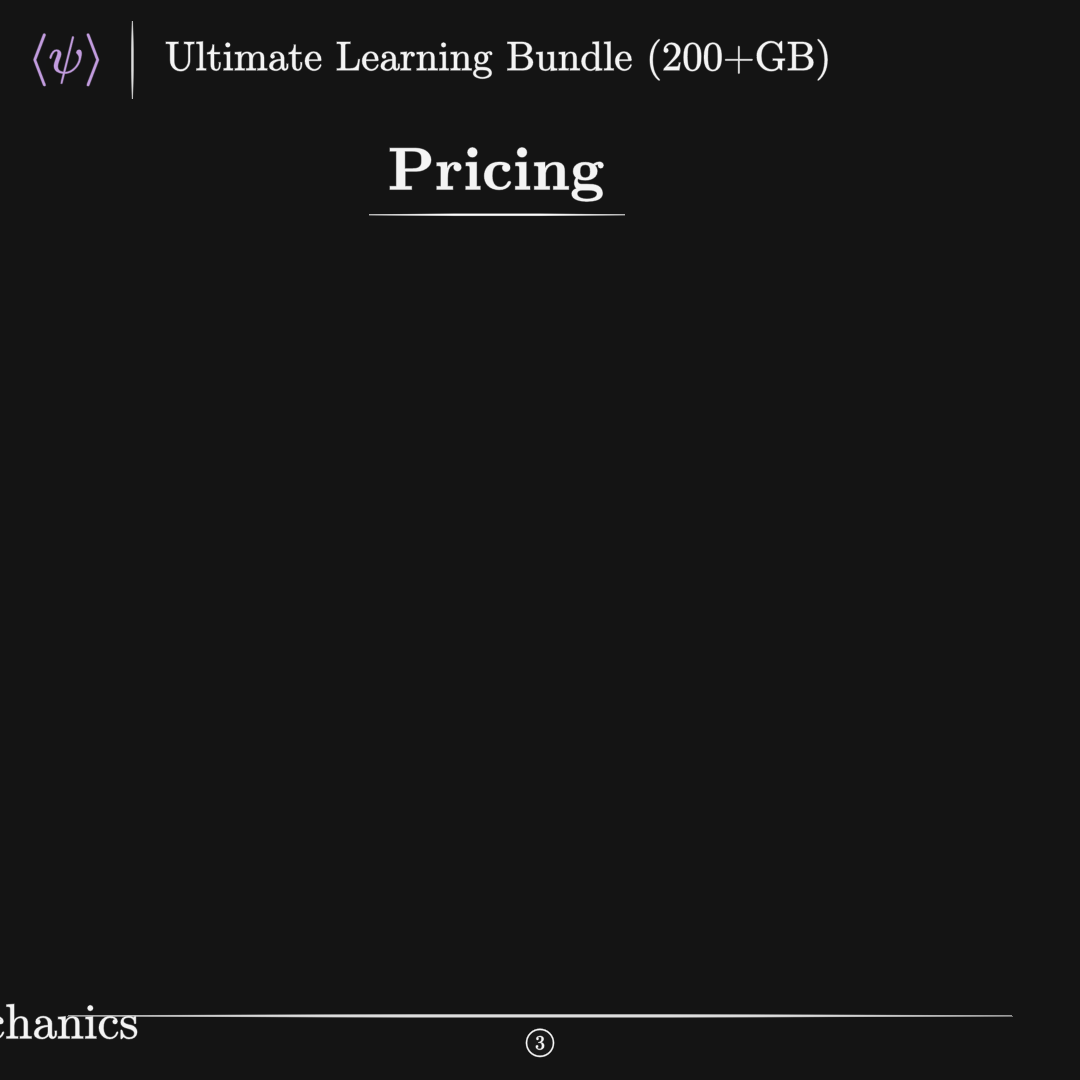
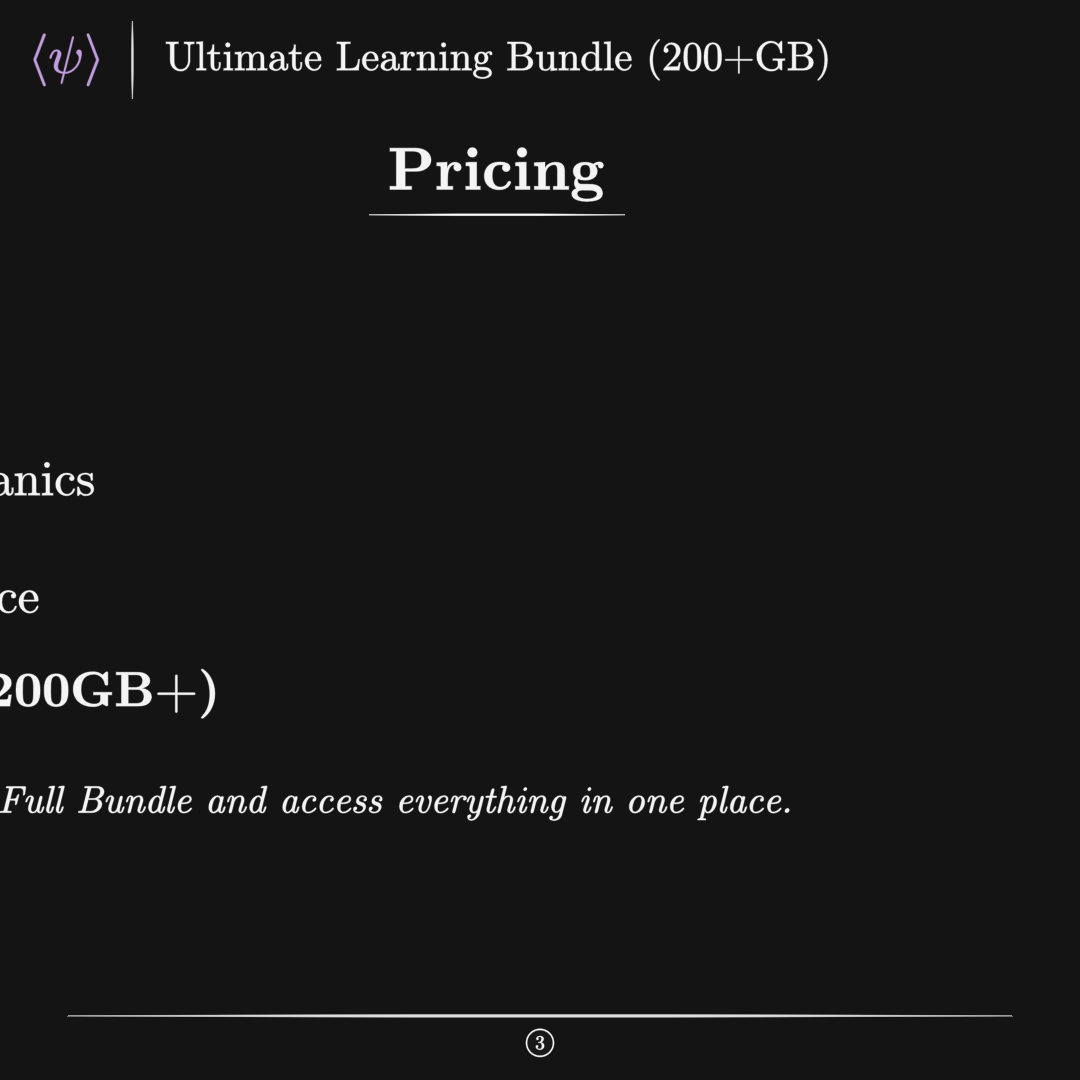
f

diff --git a/test.py b/test.py
@@ -148,7 +148,7 @@ class Pricing(PaidTemplate):
             alignment=r"\flushleft",
             font_size=36,
         )
-        pricing.next_to(pricing, DOWN, buff=MED_LARGE_BUFF)
+        pricing.next_to(pt_underline, DOWN, buff=MED_LARGE_BUFF)
         self.add(pricing)
 
         best = TexText(
